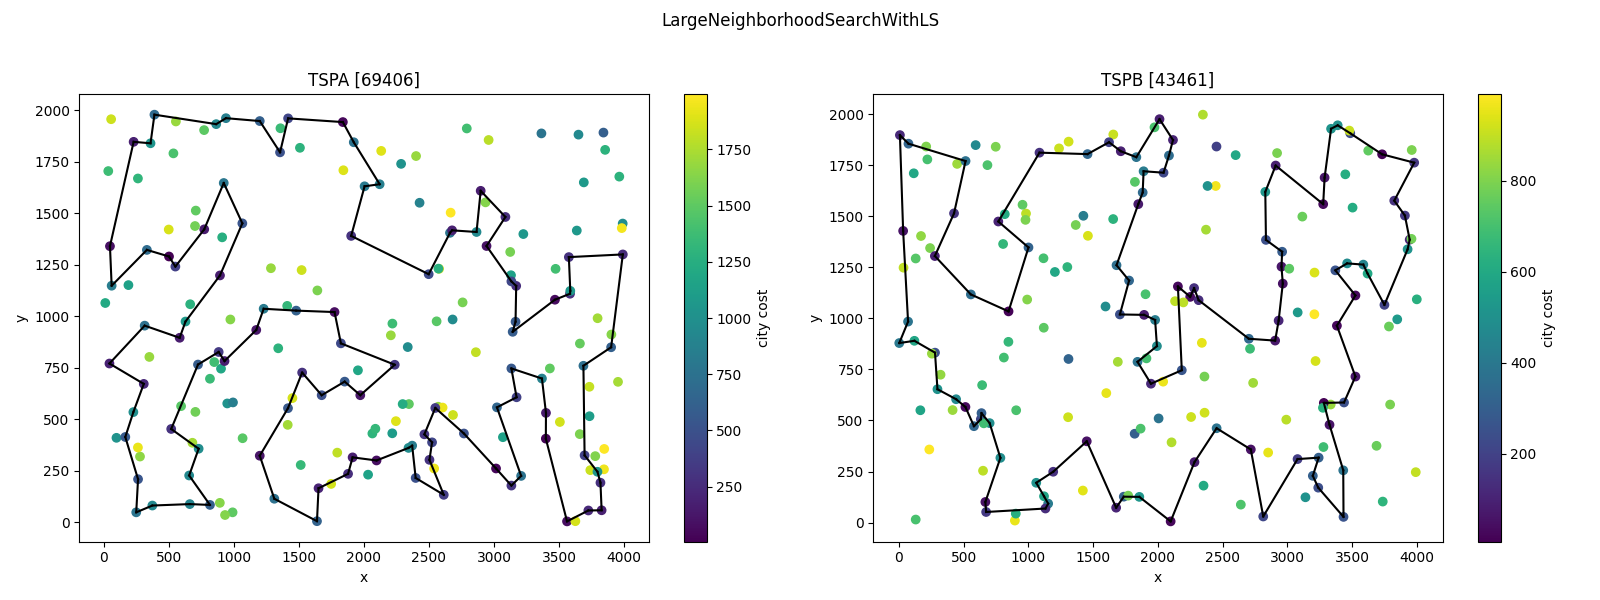
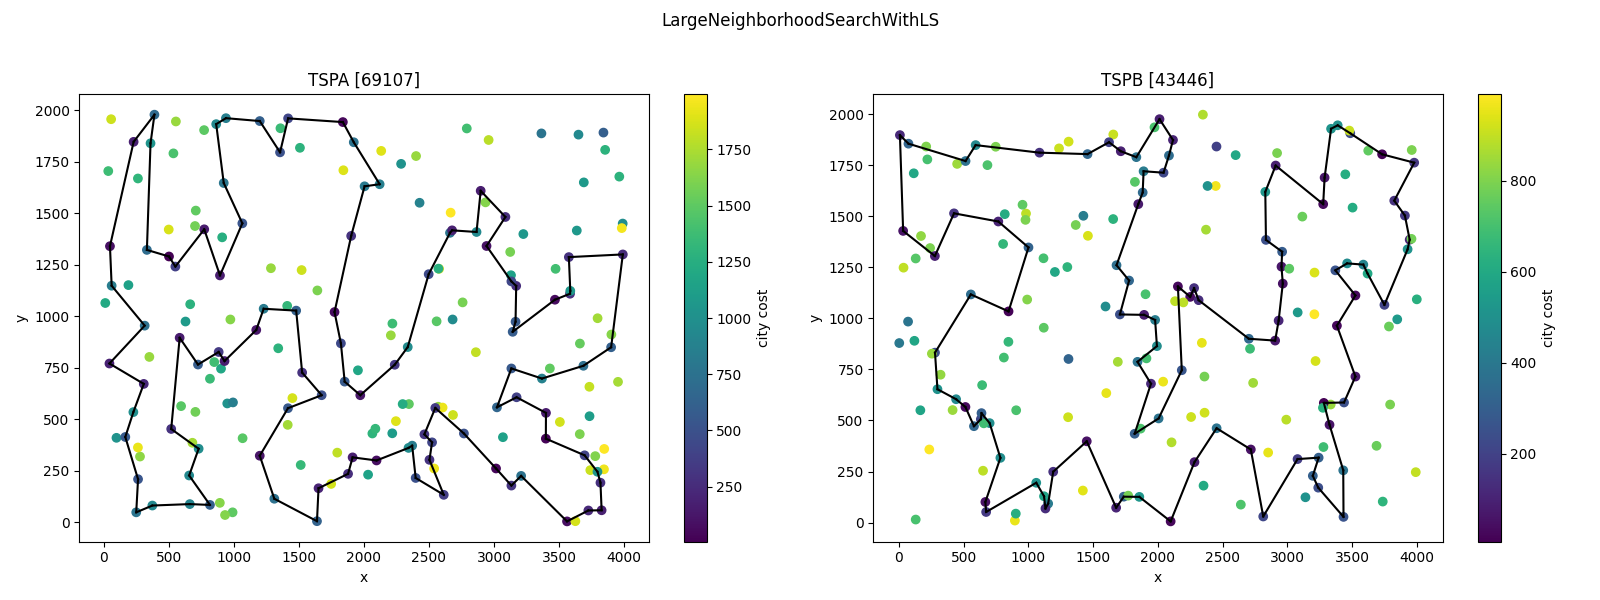
LNS v2

diff --git a/README.md b/README.md
@@ -37,27 +37,25 @@ This visual representation provides an intuitive way to interpret the spatial re
 
 ### Instance: **tspa**
 
-| **Method**                          | **Min**   | **Mean**  | **Max**   | **Avg time (s)**  |
-|-------------------------------------|-----------|-----------|-----------|-------------------|
-| `LargeNeighborhoodSearchWithLS`     | **69406** | **69703** | **70281** | **33.0160**       |
-| `LargeNeighborhoodSearchWithoutLS`  | **69230** | **69656** | **70398** | **33.0070**       |
-| `MSLS`                              | **70770** | **71193** | **71611** | **35.0760**       |
-
-- **Large Neighborhood without LS**: ~1130 iterations of main loop  
-- **Large Neighborhood with LS**: ~2097 iterations of main loop  
+| **Method**                     | **Min**         | **Mean**        | **Max**         | **Avg time (s)**     | **Iterations**  |
+| ------------------------------ | --------------- | --------------- | --------------- | -------------------- | --------------- |
+| `InsertAnyPositionSolution`    | 71263           | 73229           | 76156           | 0.0240               | -               |
+| `MSLS`                         | 70630           | 71164           | 71554           | 21.6870              | -               |
+| `LargeNeighborhoodSearchWithLS` | 69107           | 69496           | 70330           | 22.2230              | 1497            |
+| `LargeNeighborhoodSearchWithoutLS` | 69166           | 69645           | 70068           | 22.2190              | 2518            |
+| `IteratedLocalSearch`          | 69100           | 69590           | 70046           | 22.1530              | 2808            |
 
 ---
 
 ### Instance: **tspb**
 
-| **Method**                          | **Min**  | **Mean**   | **Max**   | **Avg time\* (s)** |
-|-------------------------------------|----------|------------|-----------|--------------------|
-| `LargeNeighborhoodSearchWithLS`     | **43461** | **43990** | **44674** | **33.0130**        |
-| `LargeNeighborhoodSearchWithoutLS`  | **43579** | **44210** | **45756** | **33.0080**        |
-| `MSLS`                              | **45025** | **45728** | **46188** | **34.4420**        |
-
-- **Large Neighborhood without LS**: ~1171 iterations of main loop  
-- **Large Neighborhood with LS**: ~2158 iterations of main loop  
+| **Method**                     | **Min**         | **Mean**        | **Max**         | **Avg time (s)**     | **Iterations**  |
+| ------------------------------ | --------------- | --------------- | --------------- | -------------------- | --------------- |
+| `InsertAnyPositionSolution`    | 44446           | 46246           | 52152           | 0.0210               | -               |
+| `MSLS`                         | 45158           | 45658           | 46156           | 22.3800              | -               |
+| `LargeNeighborhoodSearchWithLS` | 43446           | 44108           | 44926           | 22.2240              | 1468            |
+| `LargeNeighborhoodSearchWithoutLS` | 43448           | 44293           | 45314           | 22.2190              | 2468            |
+| `IteratedLocalSearch`          | 43477           | 44088           | 44700           | 22.1520              | 2902            |
 
 --- 
 
@@ -65,7 +63,7 @@ This visual representation provides an intuitive way to interpret the spatial re
 
 ```
 function destroy(solution):
-    remove 25 cities radomly (uniform distribution) from the solution
+    remove 30 cities radomly (uniform distribution) from the solution
 
 function repair(solution):
     perform greedy at any position algorithm on the solution
@@ -74,7 +72,7 @@ function local_search(solution) = SteepestLocalSearch with Node swaps
 
 function LargeNeighborhoodSearchWithLS(solution):
     cur_solution = local_search(solution)
-    until 33 seconds have passed:
+    until 22 seconds have passed:
         new_solution = destroy(solution)
         new_solution = repair(new_solution)
         new_solution = local_search(new_solution)
@@ -94,59 +92,66 @@ function LargeNeighborhoodSearchWithoutLS(solution):
 
 ![lns-with-ls](plots/LargeNeighborhoodSearchWithLS.png)
 ![lns-without-ls](plots/LargeNeighborhoodSearchWithLS.png)
+![ils](plots/IteratedLocalSearch.png)
 ![msls](plots/MSLS.png)
 
 ## [Conclusions](#conclusions)
 
-For both TSPA and TSPB instances, IteratedLocalSearch consistently achieved lower minimum, mean, and maximum costs compared to MSLS. This suggests that IteratedLocalSearch is more effective in finding lower-cost solutions for this modified TSP problem.
-
-### Execution Time
-
-The execution time for IteratedLocalSearch is slightly higher than MSLS for both TSPA and TSPB instances. However, the difference in execution time is relatively small compared to the improvement in solution quality.
+For both TSPA and TSPB instances, the results from LNS are similar to ILS but slitghtly worse. Experiments also showed that the LNS with LS is only marginally better than LNS without LS. The MSLS method is the worst in terms of solution quality, which was expected. It is possible that more sophisticated destroy method could improve the results but from other similiarly complicated functions this works the best.
 
 ### Summary
 
-IteratedLocalSearch outperforms MSLS in terms of solution quality, achieving lower costs for both TSPA and TSPB instances. While IteratedLocalSearch takes slightly longer to execute, the trade-off is justified by the significant improvement in solution quality.
+Considering the results of the experiments, version of LNS without LS is the simplest and yet very powerful method for solving TSP-like problems.
 
 ```
 Instance: tspa
-Method: IteratedLocalSearch
-Best Solution Path: 154, 180, 53, 121, 100, 26, 86, 75, 101, 1, 97, 152, 2, 120, 44, 25, 16, 171, 175, 113, 56, 31, 78, 145, 92, 129, 57, 179, 196, 81, 90, 165, 40, 185, 55, 52, 106, 178, 49, 14, 144, 62, 9, 148, 124, 94, 63, 79, 80, 176, 137, 23, 186, 89, 183, 143, 0, 117, 93, 140, 108, 69, 18, 22, 146, 159, 193, 41, 139, 68, 46, 115, 59, 118, 51, 151, 133, 162, 149, 65, 116, 43, 42, 181, 34, 160, 48, 54, 177, 10, 190, 184, 35, 84, 4, 112, 123, 127, 70, 135
-Best Solution Cost: 69353
-
-Instance: tspa
-Method: MSLS
-Best Solution Path: 9, 148, 102, 49, 178, 106, 52, 55, 57, 179, 145, 78, 92, 129, 2, 152, 94, 63, 122, 79, 80, 176, 137, 89, 183, 143, 0, 117, 93, 140, 108, 69, 18, 159, 22, 146, 181, 34, 160, 48, 30, 54, 184, 177, 10, 4, 112, 127, 123, 162, 149, 131, 65, 116, 43, 42, 5, 41, 193, 139, 68, 46, 198, 115, 59, 118, 51, 151, 133, 135, 70, 154, 180, 53, 100, 26, 97, 1, 101, 86, 75, 120, 44, 25, 16, 171, 175, 113, 56, 31, 196, 81, 90, 119, 40, 185, 165, 14, 144, 62
-Best Solution Cost: 71299
-
-Instance: tspa
-Method: GreedyAtAnyPosition
+Method: InsertAnyPositionSolution
 Best Solution Path: 68, 46, 115, 139, 193, 41, 5, 42, 181, 159, 69, 108, 18, 22, 146, 34, 160, 48, 54, 177, 10, 190, 4, 112, 84, 35, 184, 43, 116, 65, 59, 118, 51, 151, 133, 162, 123, 127, 70, 135, 180, 154, 53, 100, 26, 86, 75, 44, 25, 16, 171, 175, 113, 56, 31, 78, 145, 179, 92, 57, 52, 185, 119, 40, 196, 81, 90, 165, 106, 178, 14, 144, 62, 9, 148, 102, 49, 55, 129, 120, 2, 101, 1, 97, 152, 124, 94, 63, 79, 80, 176, 137, 23, 186, 89, 183, 0, 143, 117, 93
 Best Solution Cost: 71263
 
 Instance: tspa
-Method: ListOfImprovingMoves
-Best Solution Path: 117, 0, 143, 183, 89, 23, 137, 15, 62, 9, 148, 49, 102, 144, 14, 3, 178, 106, 52, 55, 185, 40, 119, 165, 164, 7, 27, 90, 81, 196, 31, 113, 175, 171, 16, 78, 145, 179, 57, 92, 129, 25, 44, 120, 2, 75, 86, 101, 1, 97, 152, 94, 26, 100, 53, 180, 154, 135, 70, 127, 123, 162, 151, 133, 79, 63, 122, 80, 176, 51, 118, 59, 149, 65, 116, 115, 139, 46, 68, 193, 41, 181, 43, 42, 160, 184, 84, 112, 4, 190, 10, 177, 54, 34, 22, 159, 18, 69, 108, 93
-Best Solution Cost: 71742
-
-
-Instance: tspb
-Method: IteratedLocalSearch
-Best Solution Path: 141, 91, 61, 36, 177, 5, 78, 175, 45, 80, 190, 136, 73, 54, 31, 193, 117, 198, 156, 1, 16, 27, 38, 135, 63, 100, 40, 107, 133, 122, 90, 131, 121, 51, 147, 6, 188, 169, 132, 13, 70, 3, 15, 145, 195, 168, 139, 11, 138, 33, 160, 104, 8, 111, 144, 29, 0, 109, 35, 143, 106, 124, 62, 18, 55, 34, 170, 152, 183, 140, 4, 149, 28, 20, 60, 148, 47, 94, 66, 179, 185, 99, 130, 95, 86, 166, 194, 176, 113, 26, 103, 114, 137, 127, 89, 163, 187, 153, 81, 77
-Best Solution Cost: 43869
-
-Instance: tspb
 Method: MSLS
-Best Solution Path: 11, 138, 182, 139, 168, 195, 13, 145, 15, 3, 70, 161, 132, 169, 188, 6, 147, 51, 121, 131, 90, 122, 40, 107, 63, 102, 135, 38, 27, 16, 197, 1, 156, 198, 117, 193, 31, 54, 73, 190, 80, 175, 78, 142, 5, 177, 8, 82, 21, 61, 36, 141, 97, 77, 81, 153, 187, 163, 89, 127, 114, 103, 26, 113, 176, 194, 166, 86, 95, 130, 99, 185, 22, 179, 94, 47, 148, 60, 28, 20, 183, 140, 152, 34, 55, 18, 62, 124, 106, 159, 143, 35, 109, 0, 29, 160, 144, 104, 33, 49
-Best Solution Cost: 46053
+Best Solution Path: 176, 80, 79, 63, 94, 124, 148, 9, 62, 144, 102, 49, 14, 178, 106, 52, 55, 57, 92, 78, 145, 179, 185, 40, 119, 165, 27, 90, 81, 196, 157, 31, 56, 113, 175, 171, 16, 25, 44, 120, 82, 129, 2, 75, 86, 101, 1, 152, 97, 26, 100, 53, 180, 154, 135, 127, 123, 162, 133, 151, 51, 118, 59, 149, 131, 65, 116, 43, 184, 35, 84, 112, 4, 10, 177, 54, 48, 160, 34, 146, 22, 159, 181, 42, 41, 193, 18, 108, 140, 68, 139, 115, 46, 0, 117, 143, 183, 89, 23, 137
+Best Solution Cost: 70630
+
+Instance: tspa
+Method: LargeNeighborhoodSearchWithLS
+Best Solution Path: 42, 43, 116, 65, 59, 118, 51, 151, 133, 162, 123, 127, 70, 135, 154, 180, 53, 100, 26, 86, 75, 101, 1, 97, 152, 2, 120, 44, 25, 16, 171, 175, 113, 56, 31, 78, 145, 92, 129, 57, 179, 196, 81, 90, 165, 119, 40, 185, 55, 52, 106, 178, 49, 14, 144, 102, 62, 9, 148, 124, 94, 63, 79, 80, 176, 137, 23, 186, 89, 183, 143, 0, 117, 93, 140, 68, 46, 115, 139, 41, 193, 159, 69, 108, 18, 22, 146, 181, 34, 160, 48, 54, 177, 10, 190, 4, 112, 84, 35, 184
+Best Solution Cost: 69107
+
+Instance: tspa
+Method: LargeNeighborhoodSearchWithoutLS
+Best Solution Path: 90, 81, 196, 31, 56, 113, 175, 171, 16, 78, 145, 179, 57, 92, 129, 25, 44, 120, 2, 152, 97, 1, 101, 75, 86, 26, 100, 53, 180, 154, 135, 70, 127, 123, 162, 133, 151, 51, 118, 59, 65, 116, 43, 42, 184, 35, 84, 112, 4, 190, 10, 177, 54, 48, 160, 34, 181, 146, 22, 18, 108, 69, 159, 193, 41, 139, 115, 46, 68, 140, 93, 117, 0, 143, 183, 89, 186, 23, 137, 176, 80, 79, 63, 94, 124, 148, 9, 62, 102, 144, 14, 49, 178, 106, 52, 55, 185, 40, 119, 165
+Best Solution Cost: 69166
+
+Instance: tspa
+Method: IteratedLocalSearch
+Best Solution Path: 135, 70, 127, 123, 162, 133, 151, 51, 118, 59, 65, 116, 43, 42, 184, 35, 84, 112, 4, 190, 10, 177, 54, 48, 160, 34, 181, 146, 22, 18, 108, 69, 159, 193, 41, 139, 115, 46, 68, 140, 93, 117, 0, 143, 183, 89, 186, 23, 137, 176, 80, 79, 63, 94, 124, 148, 9, 62, 102, 144, 14, 49, 178, 106, 52, 55, 57, 129, 92, 179, 185, 40, 119, 165, 90, 81, 196, 145, 78, 31, 56, 113, 175, 171, 16, 25, 44, 120, 2, 152, 97, 1, 101, 75, 86, 26, 100, 53, 180, 154
+Best Solution Cost: 69100
+
 
 Instance: tspb
-Method: GreedyAtAnyPosition
+Method: InsertAnyPositionSolution
 Best Solution Path: 40, 107, 100, 63, 122, 135, 38, 27, 16, 1, 156, 198, 117, 54, 31, 193, 73, 136, 190, 80, 162, 175, 78, 142, 45, 5, 177, 36, 61, 91, 141, 77, 81, 153, 187, 163, 89, 127, 137, 114, 103, 113, 180, 176, 194, 166, 86, 95, 130, 99, 22, 185, 179, 66, 94, 47, 148, 60, 20, 28, 149, 4, 140, 183, 152, 170, 34, 55, 18, 62, 124, 106, 143, 35, 109, 0, 29, 160, 33, 138, 182, 11, 139, 168, 195, 145, 15, 3, 70, 13, 132, 169, 188, 6, 147, 191, 90, 51, 121, 131
 Best Solution Cost: 44446
 
 Instance: tspb
-Method: ListOfImprovingMoves
-Best Solution Path: 130, 99, 179, 172, 66, 94, 47, 148, 60, 23, 20, 28, 199, 9, 183, 140, 152, 34, 55, 18, 62, 124, 106, 143, 35, 0, 109, 29, 168, 195, 145, 3, 15, 70, 169, 188, 147, 71, 51, 121, 90, 131, 122, 133, 10, 107, 40, 100, 63, 102, 135, 38, 27, 1, 198, 117, 193, 31, 54, 164, 73, 136, 190, 80, 45, 175, 78, 5, 25, 138, 33, 160, 144, 104, 8, 111, 82, 87, 21, 177, 36, 61, 91, 141, 77, 81, 153, 187, 163, 89, 127, 103, 114, 113, 176, 194, 166, 86, 185, 95
-Best Solution Cost: 46822
+Method: MSLS
+Best Solution Path: 94, 154, 47, 148, 60, 20, 28, 149, 4, 140, 183, 95, 130, 99, 185, 86, 128, 124, 106, 143, 62, 18, 55, 34, 170, 152, 155, 145, 15, 3, 70, 188, 169, 132, 13, 195, 168, 139, 11, 138, 33, 160, 29, 0, 109, 35, 111, 82, 21, 8, 104, 25, 121, 51, 90, 122, 133, 10, 107, 40, 63, 135, 1, 198, 117, 193, 31, 54, 73, 136, 190, 80, 45, 175, 78, 5, 177, 36, 61, 141, 97, 77, 81, 153, 187, 163, 89, 127, 137, 114, 103, 26, 113, 180, 176, 194, 166, 172, 179, 66
+Best Solution Cost: 45158
+
+Instance: tspb
+Method: LargeNeighborhoodSearchWithLS
+Best Solution Path: 141, 91, 61, 36, 177, 5, 78, 175, 142, 45, 80, 190, 136, 73, 54, 31, 193, 117, 198, 156, 1, 131, 121, 51, 90, 122, 135, 63, 40, 107, 133, 10, 147, 6, 188, 169, 132, 70, 3, 15, 145, 13, 195, 168, 139, 11, 138, 33, 160, 144, 104, 8, 21, 82, 111, 29, 0, 109, 35, 143, 106, 124, 62, 18, 55, 34, 170, 152, 183, 140, 4, 149, 28, 20, 60, 148, 47, 94, 66, 179, 22, 99, 130, 95, 185, 86, 166, 194, 176, 113, 114, 137, 127, 89, 103, 163, 187, 153, 81, 77
+Best Solution Cost: 43446
+
+Instance: tspb
+Method: LargeNeighborhoodSearchWithoutLS
+Best Solution Path: 80, 190, 136, 73, 54, 31, 193, 117, 198, 156, 1, 16, 27, 38, 63, 40, 107, 133, 122, 135, 131, 121, 51, 90, 147, 6, 188, 169, 132, 70, 3, 15, 145, 13, 195, 168, 139, 11, 138, 33, 160, 144, 104, 8, 111, 29, 0, 109, 35, 143, 106, 124, 62, 18, 55, 34, 170, 152, 183, 140, 4, 149, 28, 20, 60, 148, 47, 94, 66, 179, 22, 99, 130, 95, 185, 86, 166, 194, 176, 113, 114, 137, 127, 89, 103, 163, 187, 153, 81, 77, 141, 91, 61, 36, 177, 5, 78, 175, 142, 45
+Best Solution Cost: 43448
+
+Instance: tspb
+Method: IteratedLocalSearch
+Best Solution Path: 38, 63, 40, 107, 122, 135, 131, 121, 51, 90, 147, 6, 188, 169, 132, 70, 3, 15, 145, 13, 195, 168, 139, 11, 138, 104, 8, 21, 82, 111, 144, 33, 160, 29, 0, 109, 35, 143, 106, 124, 62, 18, 55, 34, 170, 152, 183, 140, 4, 149, 28, 20, 60, 148, 47, 94, 66, 179, 99, 130, 95, 185, 86, 166, 194, 176, 113, 114, 137, 127, 89, 103, 163, 187, 153, 81, 77, 141, 91, 61, 36, 177, 5, 78, 175, 142, 45, 80, 190, 136, 73, 54, 31, 193, 117, 198, 156, 1, 16, 27
+Best Solution Cost: 43477
 ```
